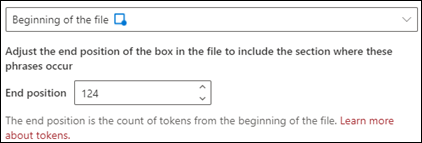
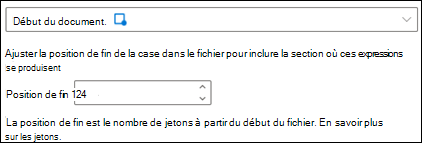
commit translated contents

diff --git a/microsoft-365/compliance/audit-log-search-script.md b/microsoft-365/compliance/audit-log-search-script.md
@@ -17,12 +17,12 @@ search.appverid:
 - MET150
 ms.custom: seo-marvel-apr2020
 description: Utilisez un script PowerShell, qui exécute la commande cmdlet Search-UnifiedAuditLog, pour effectuer des recherches dans le journal d’audit. Ce script est optimisé pour renvoyer des enregistrements d’audit de grande taille (jusqu’à 50 000). Le script exporte ces enregistrements dans un fichier CSV que vous pouvez afficher ou transformer à l’aide de Power Query dans Excel.
-ms.openlocfilehash: a91a54a6c35f96b90df156eaf4bc9735c911fc11
-ms.sourcegitcommit: 4f40f5be140a23bacff6fd7b85536de14fc7d499
+ms.openlocfilehash: d4fcf59297747d0499f6616438299ad8cbe96d7f
+ms.sourcegitcommit: c0cfb9b354db56fdd329aec2a89a9b2cf160c4b0
 ms.translationtype: HT
 ms.contentlocale: fr-FR
 ms.lasthandoff: 02/03/2021
-ms.locfileid: "50084700"
+ms.locfileid: "50094785"
 ---
 # <a name="use-a-powershell-script-to-search-the-audit-log"></a>Utiliser un script PowerShell pour effectuer une recherche dans le journal d’audit
 
@@ -149,7 +149,7 @@ Write-Host "Script complete! Finished retrieving audit records for the date rang
    |`[DateTime]$start` et `[DateTime]$end`|[DateTime]::UtcNow.AddDays(-1) <br/>[DateTime]::UtcNow|Spécifie la plage de dates pour la recherche dans le journal d’audit. Le script retourne les enregistrements des activités d’audit qui se sont produites dans la plage de dates spécifiée. Par exemple, pour renvoyer les activités effectuées en janvier 2021, vous pouvez utiliser une date de début de `"2021-01-01"` et une date de fin de `"2021-01-31"` (n’oubliez pas d’entourer les valeurs de guillemets doubles) La valeur d’exemple dans le script renvoie les enregistrements des activités effectuées au cours des 24 heures précédentes. si vous n’incluez pas d’horodatage dans la valeur, l’horodatage par défaut est 00:00 (minuit) pour la date spécifiée.|
    |`$record`|« AzureActiveDirectory »|Spécifie le type d’enregistrement des activités d’audit (également *opérations*) à rechercher. Cette propriété indique le service ou la fonctionnalité dans qui une activité a été déclenchée. Pour obtenir la liste des types d’enregistrement que vous pouvez utiliser pour cette variable, consultez [Type d’enregistrement journal d’audit](https://docs.microsoft.com/office/office-365-management-api/office-365-management-activity-api-schema#auditlogrecordtype). Vous pouvez utiliser le nom du type d’enregistrement ou la valeur ENUM. <br/><br/>**Conseil :** pour renvoyer les enregistrements d'audit pour tous les types d'enregistrements, utilisez la valeur `$null` (sans guillemets doubles).|
    |`$resultSize`|5000|Spécifie le nombre de résultats renvoyés chaque fois que la commande cmdlet **Search-UnifiedAuditLog** est appelée par le script (appelé *jeu de résultats*). La valeur de 5 000 est la valeur maximale prise en charge par la commande cmdlet. Laissez cette valeur telle qu’elle est.|
-   |`$intervalMinutes`|60|Pour dépasser la limite de 5 000 enregistrements renvoyés, cette variable prend la plage de données que vous avez spécifiée et la découpe en intervalles de temps plus courts. Chaque intervalle, et non la plage de dates entière, est soumis à la limite de sortie de l’enregistrement de 5 000 de la commande. La valeur par défaut de 5 000 enregistrements par intervalle de 60 minutes dans la plage de dates doit être suffisante pour la plupart des organisations. Toutefois, si le script renvoie une erreur qui indique `maximum results limitation reached`, diminuez l’intervalle de temps (par exemple, à 30 minutes, voire 15 minutes) et réexécutez le script.|
+   |`$intervalMinutes`|60|Pour dépasser la limite de 5 000 enregistrements renvoyés, cette variable prend la plage de données que vous avez spécifiée et la découpe en intervalles de temps plus courts. Chaque intervalle, et non la plage de dates entière, est soumis à la limite de sortie de l’enregistrement de 5 000 de la commande. La valeur par défaut de 5 000 enregistrements par intervalle de 60 minutes dans la plage de dates doit être suffisante pour la plupart des organisations. Toutefois, si le script renvoie une erreur qui indique `maximum results limitation reached`, diminuez l’intervalle de temps (par exemple, à 30 minutes, voire 15 minutes) et réexécutez le script.|
    ||||
 
    La plupart des variables répertoriées dans le tableau précédent correspondent aux paramètres de la commande cmdlet **Search-UnifiedAuditLog**. Pour plus d'informations sur ces paramètres, voir [Search-UnifiedAuditLog](https://docs.microsoft.com/powershell/module/exchange/search-unifiedauditlog).

diff --git a/microsoft-365/compliance/retention-policies-teams.md b/microsoft-365/compliance/retention-policies-teams.md
@@ -17,12 +17,12 @@ search.appverid:
 - MOE150
 - MET150
 description: Découvrir les stratégies de rétention qui s’appliquent à Microsoft Teams.
-ms.openlocfilehash: ebf1efe99e57084e2384e7499b3f72dab2b872c2
-ms.sourcegitcommit: b8e9b2ecdc4927b67088c5fffb1585424c66fb10
+ms.openlocfilehash: efbdee1fd5ee3c8c48aca9cbaf9e5a85a107edb4
+ms.sourcegitcommit: c0cfb9b354db56fdd329aec2a89a9b2cf160c4b0
 ms.translationtype: HT
 ms.contentlocale: fr-FR
-ms.lasthandoff: 01/29/2021
-ms.locfileid: "50050388"
+ms.lasthandoff: 02/03/2021
+ms.locfileid: "50094687"
 ---
 # <a name="learn-about-retention-for-microsoft-teams"></a>En savoir plus sur la rétention dans Microsoft Teams
 
@@ -43,7 +43,7 @@ Les éléments suivants de Teams peuvent être conservés et supprimés en utili
 > [!NOTE]
 > L'inclusion du contenu de la carte est un ajout récent et est actuellement proposée aux locataires. Pour plus d'informations, voir [les capacités de conformité de Microsoft 365 pour le contenu des cartes adaptatives par le biais d'applications dans Teams maintenant disponibles](https://techcommunity.microsoft.com/t5/microsoft-teams-blog/microsoft-365-compliance-capabilities-for-adaptive-card-content/ba-p/2095869).
 
-Les messages Teams dans les canaux privés ne sont pas inclus et les réactions des autres personnes sous la forme d’émoticônes ne sont pas incluses.
+Nous n’incluons pas les messages Teams des canaux privés, ni les extraits de code, ni les réactions des autres personnes sous la forme d’émoticônes.
 
 Les messages électroniques et les fichiers que vous utilisez avec Teams ne sont pas inclus dans les stratégies de rétention Teams. Ces éléments ont leurs propres stratégies de rétention.
 
